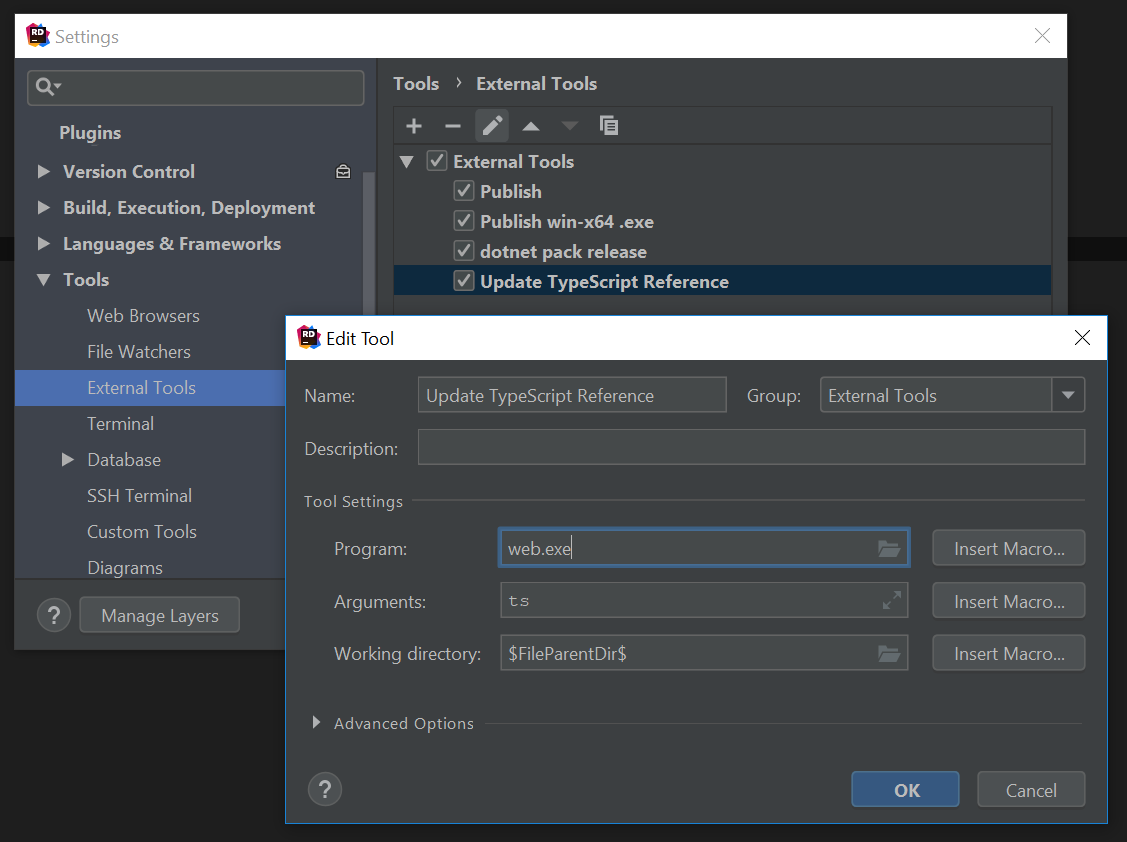
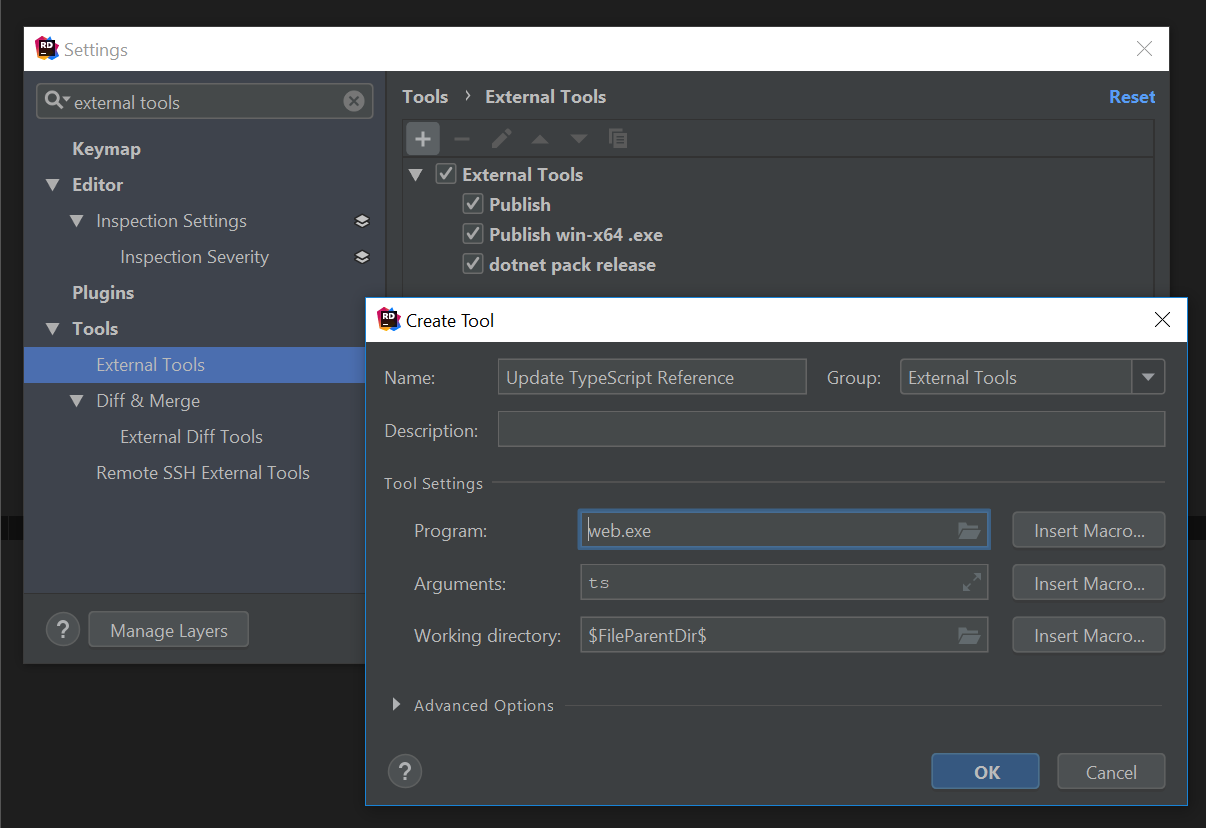
add rider integration

diff --git a/docs/_documentation/web-tool.md b/docs/_documentation/web-tool.md
@@ -135,6 +135,29 @@ If you wanted to Update your `*dtos.cs` **C# ServiceStack References** instead, 
 
 Refer to the [web usage output](#usage) above for the arguments or aliases for all other supported languages.
 
+### Integrate with Rider
+
+Just like with VS.NET above you can [add an External Tool](https://www.jetbrains.com/help/rider/Settings_Tools_External_Tools.html) 
+in [JetBrains Rider](https://www.jetbrains.com/rider/) by opening the Settings dialog with `CTRL+ALT+S` then searching for `external tools` 
+under the **Tools** category:
+
+![](https://raw.githubusercontent.com/ServiceStack/docs/master/docs/images/servicestack-reference/rider-tool-ts-reference.png)
+
+|  ||
+|-|-|
+| Name              | Update TypeScript Reference |
+| Command           | web.exe |
+| Arguments         | ts |
+| Working directory | $FileParentDir$ |
+|  ||
+
+Now you can update your `*dtos.ts` TypeScript References in your project by clicking on `External Tools > Update TypeScript Reference`
+in the right-click context menu:
+
+![](https://raw.githubusercontent.com/ServiceStack/docs/master/docs/images/servicestack-reference/rider-tool-ts-reference-run.png)
+
+If you're updating references frequently you can save time by [assigning it a keyboard shortcut](https://www.jetbrains.com/help/rider/Configuring_Keyboard_and_Mouse_Shortcuts.html).
+
 ### Create new Projects with `web new`
 
 See [web new](/web-new) for info on how to create new projects.
